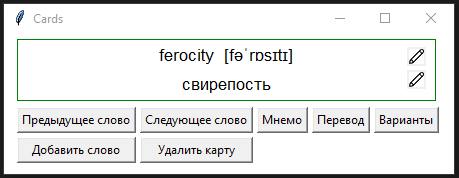
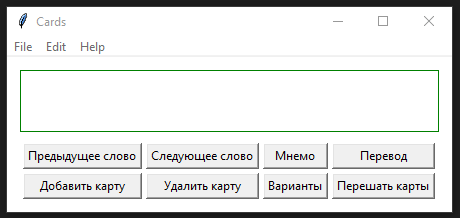
Minor update

Changed region(s): [[0.0, 0.0, 1.0, 0.9831], [0.3965, 0.4494, 0.61, 0.5056], [0.732, 0.0843, 0.7625, 0.1124]]

diff --git a/mnemo.py b/mnemo.py
@@ -6,11 +6,17 @@ import os
 
 title(text="Cards")
 
-config(size="450x140+700+300",background="white")
+config(size="445x155+700+300",background="white")
 
-frame1 = {"name_of_frame":"first_frame","background":"white","border_thickness":1,"border_color":"green","x":13,"y":5}
-frame2 = {"name_of_frame":"second_frame","background":"white","x":10,"y":70}
-icons = {"name_of_frame":"icons","background":"white","x":400,"y":10}
+frame1 = {"name_of_frame":"first_frame","background":"white","border_thickness":1,"border_color":"green","x":13,"y":13}
+buttons = {"name_of_frame":"second_frame","background":"white","x":13,"y":83}
+icons = {"name_of_frame":"icons","background":"white","x":400,"y":20}
+
+tabs = {"File":{"New":"False","Open":"False","Save":"False","Save as":"False","Close":"False","---":"---","Exit":quit},
+"Edit":{"Undo":"False","---":"---","Cut":"False","Copy":"False","Paste":"False","Delete":"False","Select All":"False"},
+"Help":{"Help Index":"False","About...":"False","Help":"False"}}
+
+top_menu(tabs)
 
 filename = "eng_rus.csv"
 i = 0
@@ -170,12 +176,14 @@ make_label("",0,0)
 make_label("",1,0)
 
 #Buttons
-button(frame=frame2,text="Предыдущее слово",command=counter_minus,row=1,column=0)
-button(frame=frame2,text="Следующее слово",command=counter_plus,row=1,column=1)
-button(frame=frame2,text="Мнемо",command=mnemocard,row=1,column=2)
-button(frame=frame2,text="Перевод",command=translate,row=1,column=3)
-button(frame=frame2,text="Варианты",command=scrabble,row=1,column=4)
-button(frame=frame2,text="Добавить слово",command=new_word,row=2,column=0)
-button(frame=frame2,text="Удалить карту",command=delete_card,row=2,column=1)
+button(frame=buttons,text="Предыдущее слово",command=counter_minus,row=1,column=0)
+button(frame=buttons,text="Следующее слово",command=counter_plus,row=1,column=1)
+button(frame=buttons,text="Мнемо",command=mnemocard,row=1,column=2)
+button(frame=buttons,text="Перевод",command=translate,row=1,column=3)
+
+button(frame=buttons,text="Добавить карту",command=new_word,row=2,column=0)
+button(frame=buttons,text="Удалить карту",command=delete_card,row=2,column=1)
+button(frame=buttons,text="Перешать карты",command=False,row=2,column=3)
+button(frame=buttons,text="Варианты",command=scrabble,row=2,column=2)
 
 app_loop()
